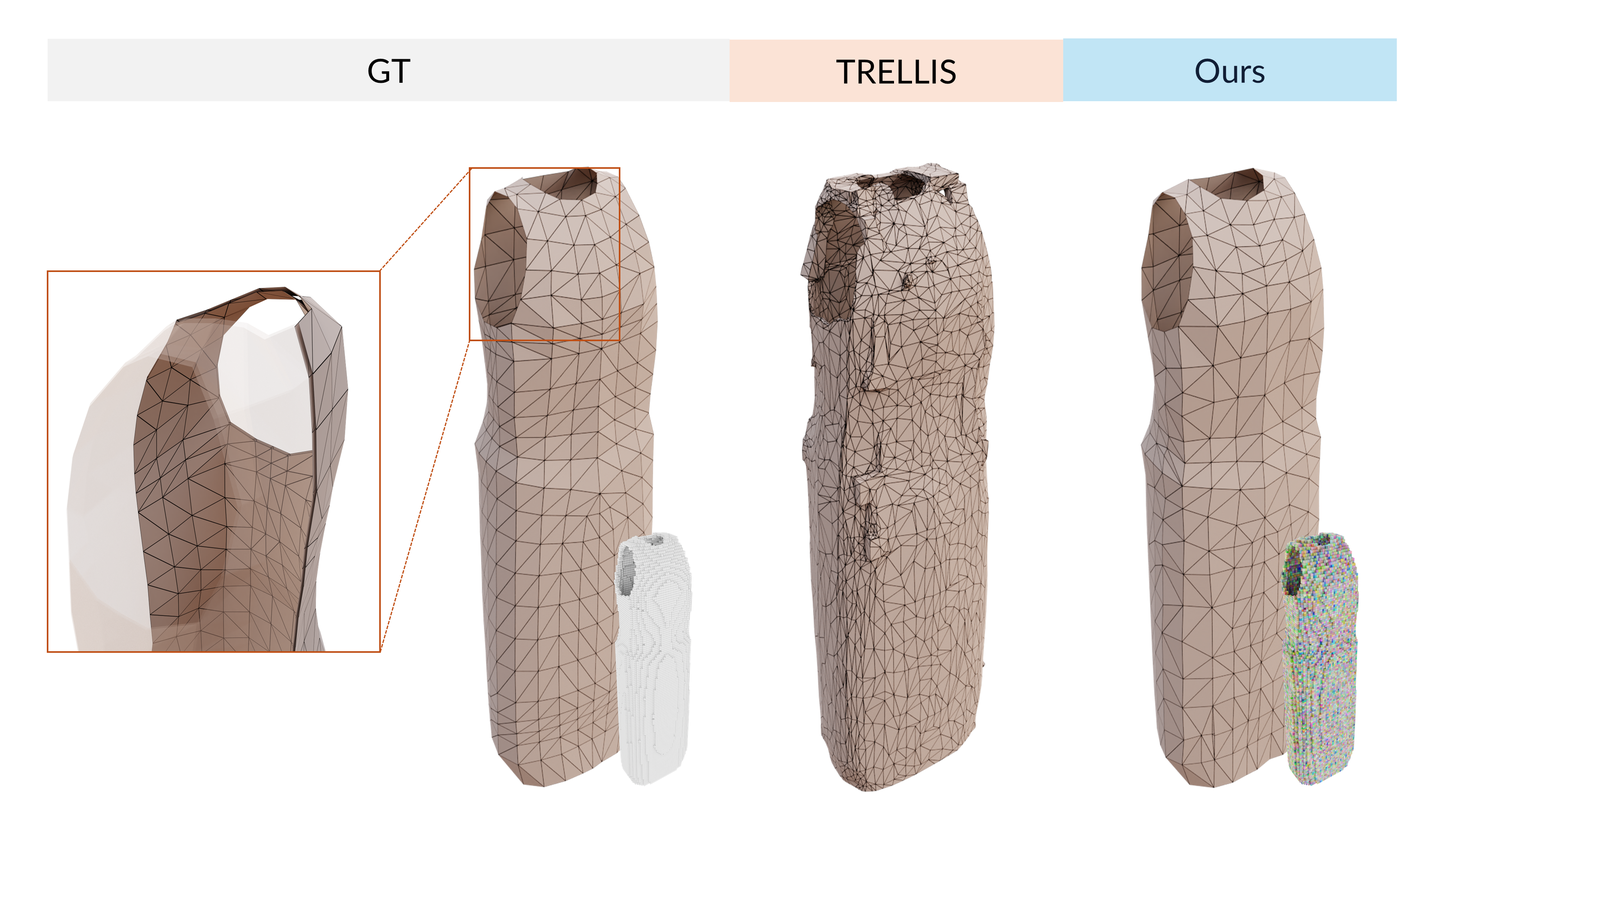
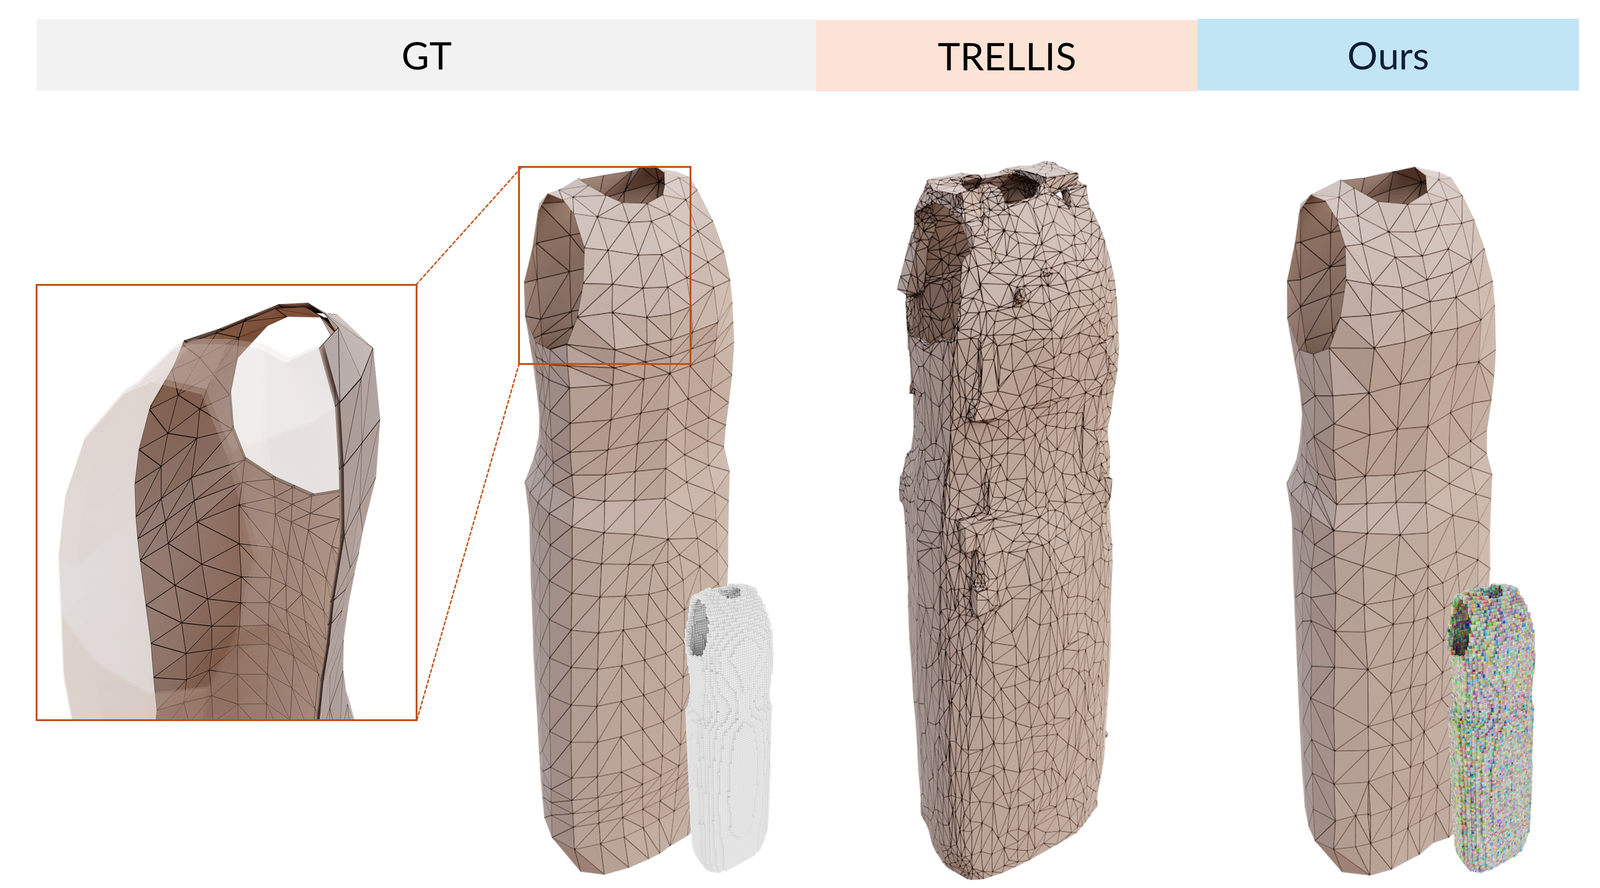
cut imgs

diff --git a/resize.py b/resize.py
@@ -1,0 +1,45 @@
+import os
+import glob
+from PIL import Image
+
+# Configuration
+# You can change this path if you want to run it on a specific folder
+workspace_dir = r'.' 
+# Set your desired target width (1600px is good for high-res screens without being too large)
+target_width = 1600
+
+def resize_images():
+    # Find all png images in the directory and subdirectories
+    png_files = glob.glob(os.path.join(workspace_dir, '**', '*.png'), recursive=True)
+    count = 0
+
+    print(f"Searching for PNG files in {os.path.abspath(workspace_dir)}...")
+    
+    for file_path in png_files:
+        try:
+            with Image.open(file_path) as img:
+                original_width, original_height = img.size
+                
+                # Skip images that are already smaller than the target width to prevent blurriness from upscaling
+                if original_width <= target_width:
+                    print(f'Skipped {os.path.basename(file_path)}: {original_width}x{original_height} (already smaller than or equal to target)')
+                    continue
+                
+                # Calculate the new height keeping the aspect ratio
+                aspect_ratio = original_height / original_width
+                target_height = int(target_width * aspect_ratio)
+                
+                # Resize with high-quality Lanczos filter
+                resized_img = img.resize((target_width, target_height), Image.Resampling.LANCZOS)
+                
+                # Overwrite the original file
+                resized_img.save(file_path, optimize=True)
+                print(f'Resized {os.path.basename(file_path)}: {original_width}x{original_height} -> {target_width}x{target_height}')
+                count += 1
+        except Exception as e:
+            print(f'Error processing {file_path}: {e}')
+
+    print(f'\nSuccessfully resized {count} images to {target_width}px width.')
+
+if __name__ == "__main__":
+    resize_images()
